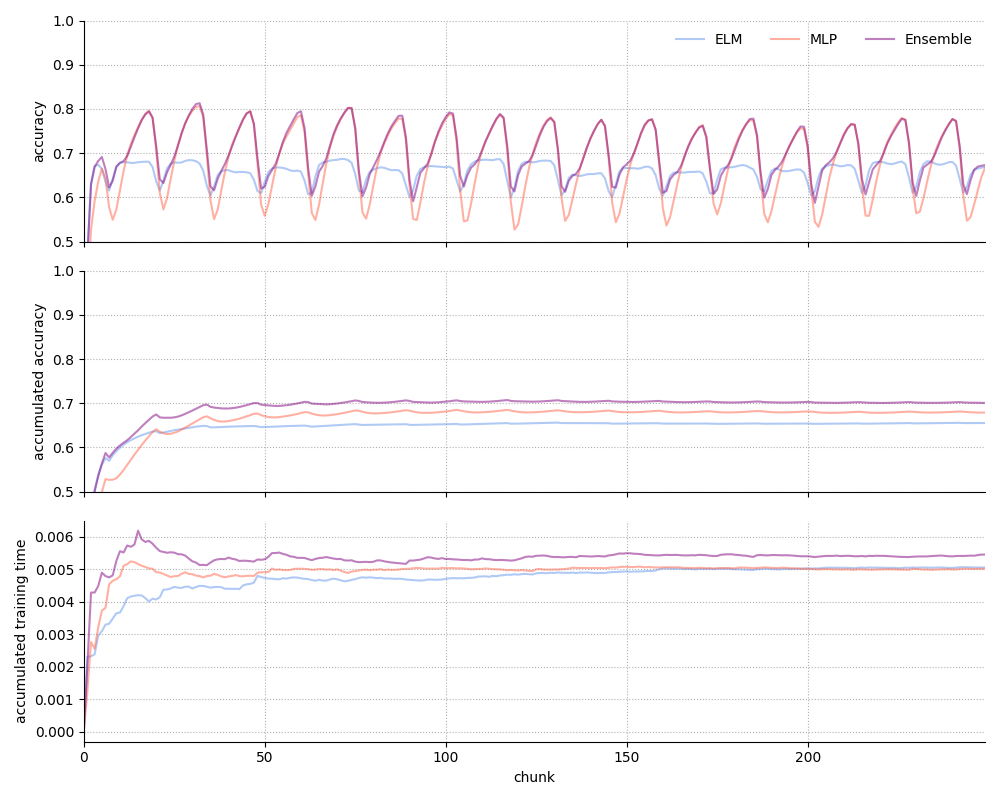
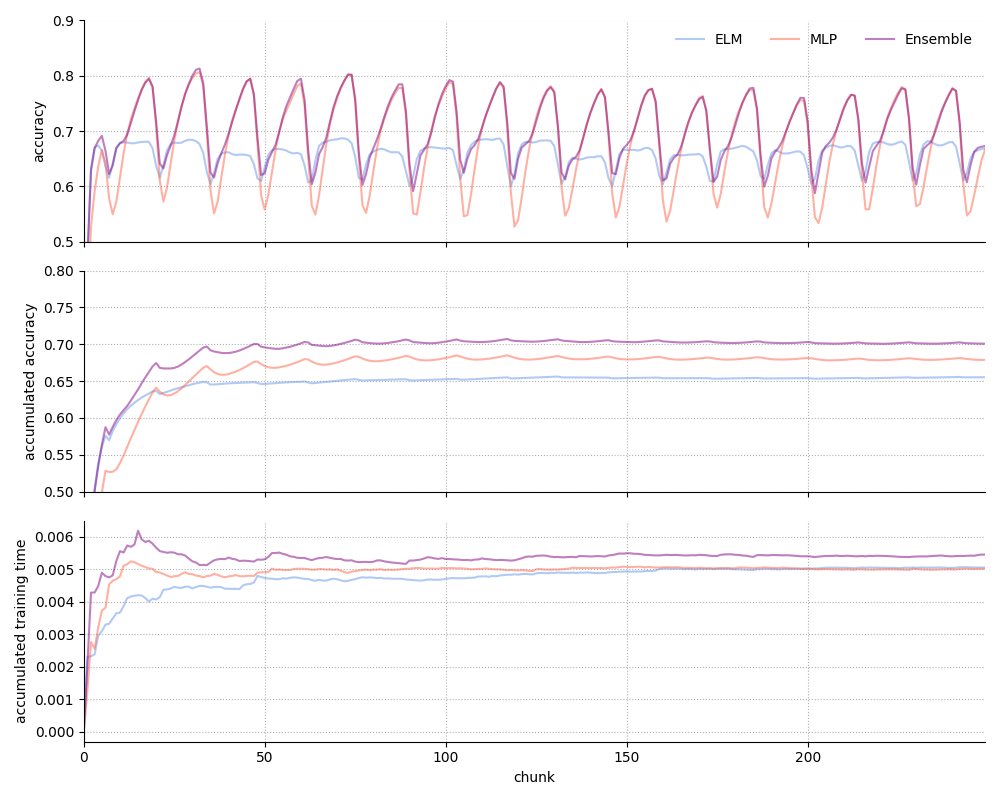
zoom plot

diff --git a/plot_zoom.py b/plot_zoom.py
@@ -1,0 +1,38 @@
+import matplotlib.pyplot as plt
+import numpy as np
+from scipy.ndimage import gaussian_filter
+
+def scores_to_cummean(scores):
+    return np.cumsum(scores)/np.arange(1,len(scores)+1)
+
+labels = ['ELM','MLP','Ensemble']
+scores = np.load('res/scores_vs.npy')
+ttimes = np.load('res/ttimes_vs.npy')
+ptimes = np.load('res/ptimes_vs.npy')
+
+scores = np.mean(scores, axis=0)
+ttimes = np.mean(ttimes, axis=0)
+ptimes = np.mean(ptimes, axis=0)
+
+cols = ['cornflowerblue', 'tomato', 'purple']
+k=1
+
+fig, ax = plt.subplots(1, 1, figsize=(4.5, 4), sharex=True)
+
+for m_id, m_label in enumerate(labels):
+    ax.plot(gaussian_filter(scores[m_id], k), label=m_label, c=cols[m_id], alpha=0.75)
+
+ax.set_ylabel('accuracy')
+ax.set_xlabel('chunk')
+
+ax.set_ylim(0.5,0.9)
+ax.set_xlim(15, 30)
+ax.legend(frameon=False, ncol=3)
+
+ax.grid(ls=':')
+ax.spines['top'].set_visible(False)
+ax.spines['right'].set_visible(False)
+
+plt.tight_layout()
+plt.savefig('foo.png')
+plt.savefig('fig/zoom.png')

diff --git a/plot_compare_mlp.py b/plot_compare_mlp.py
@@ -29,8 +29,8 @@ ax[2].set_xlabel('chunk')
 ax[1].set_ylabel('accumulated accuracy')
 ax[2].set_ylabel('accumulated training time')
 
-ax[0].set_ylim(0.5,1)
-ax[1].set_ylim(0.5,1)
+ax[0].set_ylim(0.5,0.9)
+ax[1].set_ylim(0.5,0.8)
 ax[2].set_xlim(0,249)
 ax[0].legend(frameon=False, ncol=3)
 
